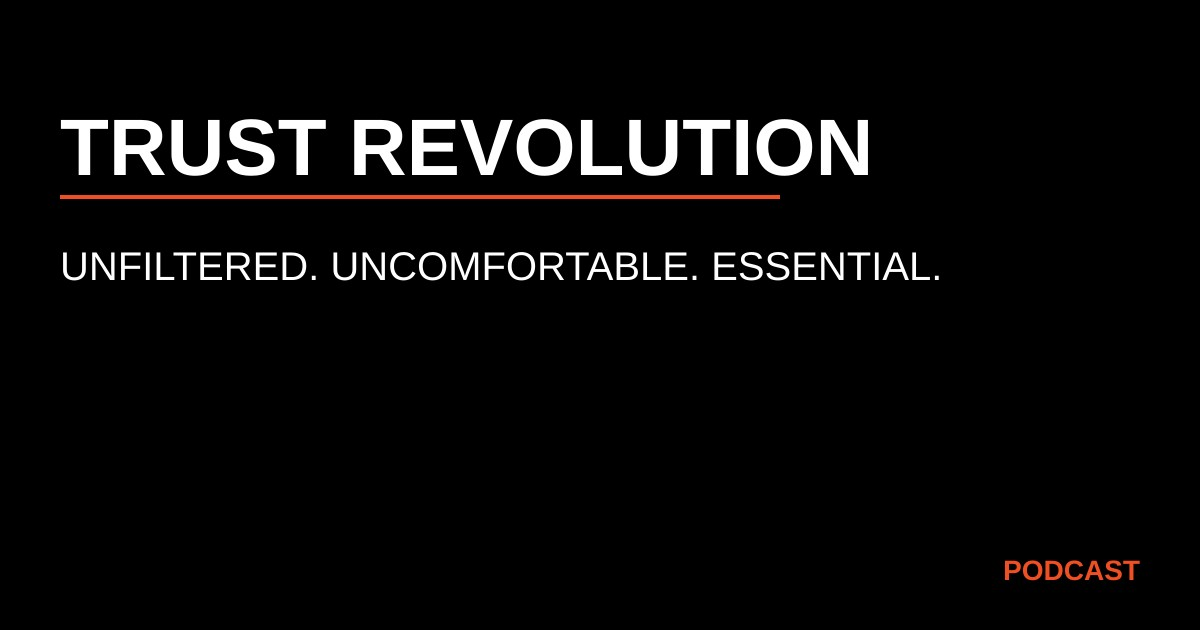
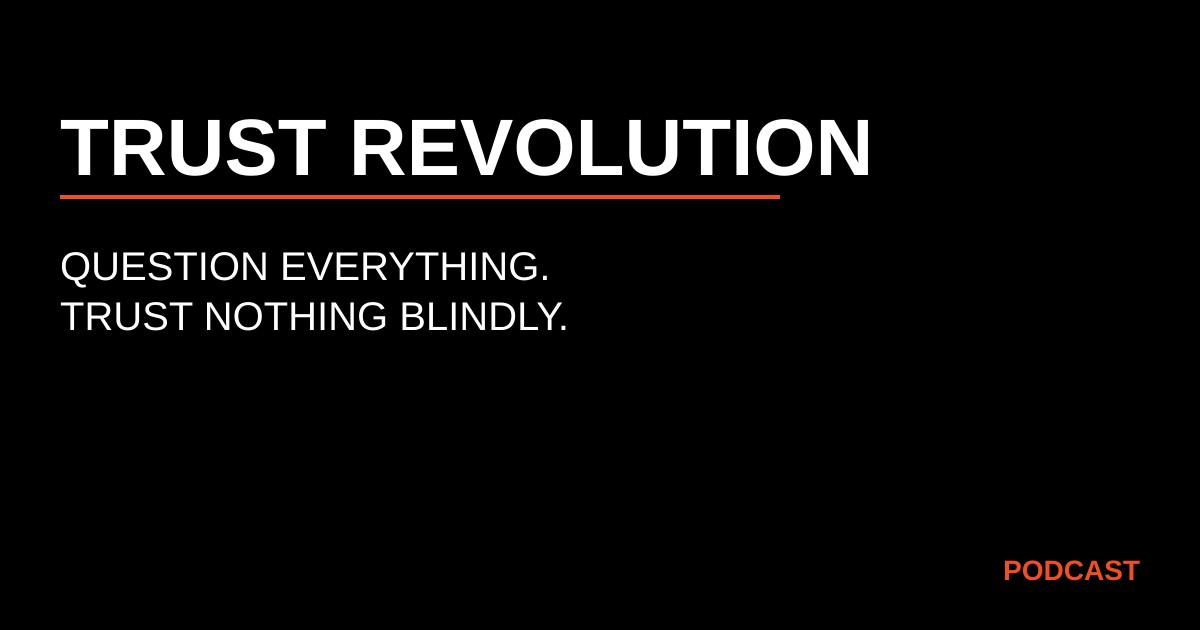
Fix homepage OG tagline and footer updates
- Use actual tagline: "Question everything. Trust nothing blindly."
- Add About link back to footer
- Add .env to .gitignore

🤖 Generated with [Claude Code](https://claude.com/claude-code)

Changed region(s): [[0.0308, 0.3921, 0.7708, 0.5429]]

diff --git a/layouts/partials/footer.html b/layouts/partials/footer.html
@@ -3,6 +3,7 @@
     <nav class="footer-nav" aria-label="Footer navigation">
       <a href="/guests/">Guests</a>
       <a href="/essays/">Essays</a>
+      <a href="/about/">About</a>
       <a href="https://primal.net/p/nprofile1qqs937g9lksy25es6h5c502d78shc3f2knq76ey0xu03qqj5g77fcygf09a6v" target="_blank" rel="noopener">Nostr</a>
       <a href="mailto:hello@trustrevolution.co">Email</a>
     </nav>

diff --git a/content/_index.md b/content/_index.md
@@ -2,6 +2,7 @@
 title: "Trust Revolution"
 og_headline: "TRUST REVOLUTION"
 og_subtext:
-  - "UNFILTERED. UNCOMFORTABLE. ESSENTIAL."
+  - "QUESTION EVERYTHING."
+  - "TRUST NOTHING BLINDLY."
 og_brand: "PODCAST"
 ---
